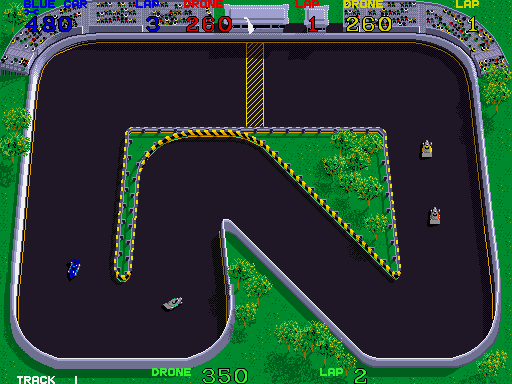
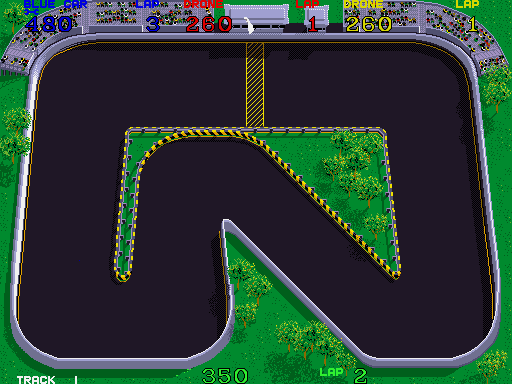
Improvements to index.html

diff --git a/public/index.html b/public/index.html
@@ -8,7 +8,8 @@
     </head>
     <body>
         <div id="qrCode"></div>
-        <img id="track" src="assets/track_boundary.svg" />
+        <!--<img id="track" src="assets/track_boundary.svg" />-->
+        <img id="track" src="assets/track.png" />
         <script>
             // Mock commonjs modules ;-)
             var exports = {},

diff --git a/public/css/view_app.css b/public/css/view_app.css
@@ -1,8 +1,17 @@
+body {
+    margin: 0;
+}
 
 #track {
     width: 900px;
     height: 675px;
     margin: auto;
+}
+
+#qrCode {
+    position: absolute;
+    top: 5px;
+    right: 5px;
 }
 
 .car {
